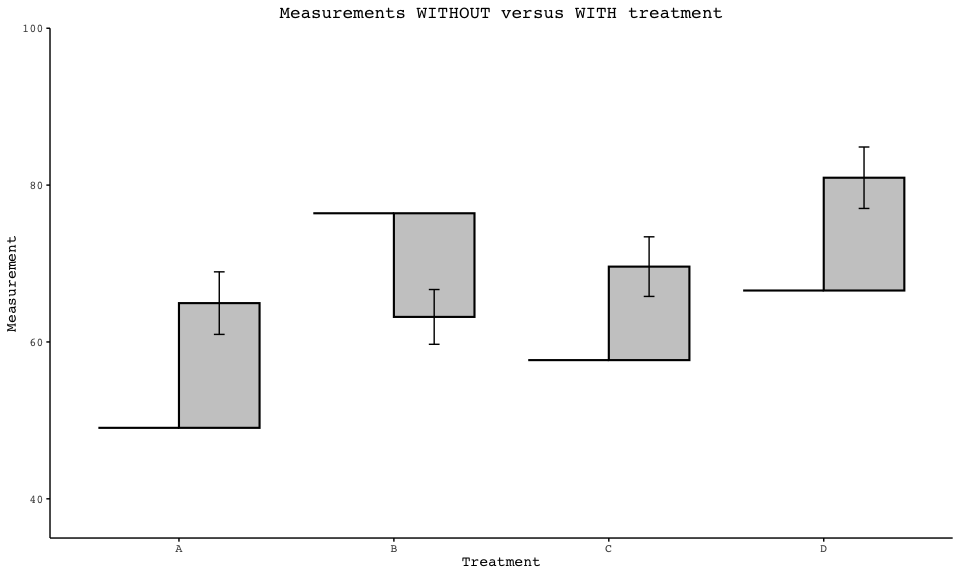
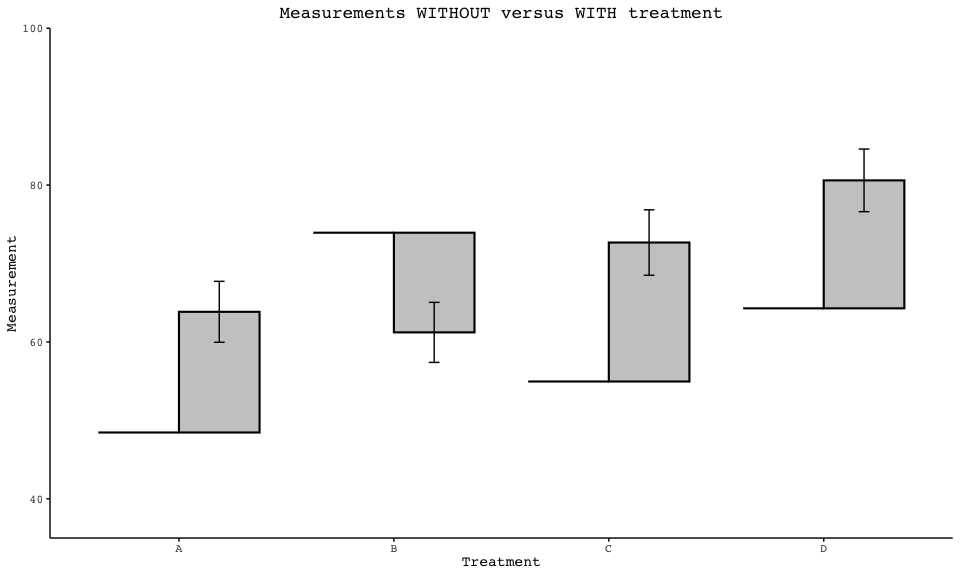
gghat updates

diff --git a/README.md b/README.md
@@ -27,6 +27,7 @@ library(patchwork)
 library(randomizr)
 library(estimatr)
 library(tidyverse)
+library(vayr)
 ```
 
 Comparative bar graphs — in which bars are paired or otherwise grouped —
@@ -100,11 +101,9 @@ that distinguishes `geom_hat()` from, say, the `geom_bar()` or
 `geom_col()` is actually outsourced to this position function. The
 benefit of this sort of organization is that variations of the same
 position function can be applied to other geoms to make them compatible
-with hat graphs. In particular, the `dodgedifftext()` and
-`dodgedifferror()` position functions can be used with the `geom_text()`
-and `geom_errorbar()` respectively. As well as `width`, which can be
-passed to both functions, a `nudge` argument can be passed to the
-former, moving text vertically away from the hats.
+with hat graphs. In particular the `dodgedifftext()` position function
+can be used with `geom_text()`. A `nudge` argument can be passed to
+`dodgedifftext()`, moving text vertically away from the hats.
 
 ``` r
 my_data <- tibble( # Create summarized data by treatment group, before and after
@@ -148,14 +147,14 @@ is recommended, as it’s easier to intuit the underlying experimental
 process. But if the user prefers, they can instead set `backwards` equal
 to TRUE, which makes the group with the minimum value the brim, such
 that a negative treatment effect would be reflected by a backwards hat.
-In this case, if the user is applying the `dodgedifftext()` or
-`dodgedifferror()` position functions to the respective geoms, they must
-also explicitly set `backwards` equal to TRUE within these functions to
-ensure proper behavior. For instance, text will sit below negative
-treatment effects when `backwards` is FALSE but above all groups when
-`backwards` is TRUE. Note that the `nudge` parameter for
-`dodgedifftext()` is particular in its ability to handle either case, as
-it pushes text above the hats upwards and text below the hats downwards.
+In this case, if the user is applying the `dodgedifftext()` position
+function to `geom_text()`, they must also explicitly set `backwards`
+equal to TRUE within these functions to ensure proper behavior. For
+instance, text will sit below negative treatment effects when
+`backwards` is FALSE but above all groups when `backwards` is TRUE. Note
+that the `nudge` parameter for `dodgedifftext()` is particular in its
+ability to handle either case, as it pushes text above the hats upwards
+and text below the hats downwards.
 
 ``` r
 my_data <- tibble( # New data wherein treatment B has a NEGATIVE effect
@@ -218,8 +217,8 @@ forwards + backwards
 Although hat graphs are designed with paired groups in mind,
 `geom_hat()` can tolerate more than two groups without any issue.
 `backwards` can still be FALSE or TRUE per the user’s preference, and
-the supplementary position functions, `dodgedifftext()` and
-`dodgedifferror()`, will behave properly.
+the supplementary position function `dodgedifftext()` will behave
+properly.
 
 ``` r
 my_data <- tibble(
@@ -254,65 +253,6 @@ ggplot(my_data, aes(x = treatment, y = mean, group = condition)) +
 ```
 
 <img src="man/figures/README-multihats-1.png" width="100%" />
-
-The `gghat` package works well with the `estimatr` package, which makes
-it easy to get group means and to calculate confidence intervals. Of
-course, the user will have to decide whether they want to derive these
-confidence intervals from the standard errors of the means or the
-average treatment effects — that is, the differences between the means.
-With hat graphs, the latter is likely preferable. In either case, the
-user can plot confidence intervals with `geom_errorbar()`, but
-importantly, if the confidence intervals are meant to contain the
-average treatment effects, the error bars should not be applied to the
-brim of the hat. This is the point of the aforementioned
-`dodgedifferror()` position function, which will only put error bars on
-non-baseline groups. Like `dodgedifftext()`, `dodgedifferror()` works
-even when `backwards` is set to TRUE, but the default setting of FALSE
-is recommended. This process is demonstrated below.
-
-``` r
-dat <- tibble( # Generate un-summarized data
-  block = rep(c("A", "B", "C", "D"), each = 100),
-  Z = block_ra(blocks = block),
-  Y = rnorm(n = 400, mean = 50 + (block == "B")*25 + (block == "C")*5 + 
-              (block == "D")*15 + Z*15 - Z*(block == "B")*30, sd = 10)
-) 
-
-group_means <- dat |> # Then summarize the data
-  group_by(block, Z) |> 
-  reframe(tidy(lm_robust(Y ~ 1))) 
-
-cates <- dat |> # Get stats on the average treatment effect
-  group_by(block) |> 
-  reframe(tidy(lm_robust(Y ~ Z))) |> # Isolate just the standard error...
-  select(block, term, std.error) |> 
-  filter(term == "Z") # ...of the average treatment effect...
-
-group_means <- group_means |> 
-  left_join(cates, by = "block", suffix = c(".mean", ".ate")) # ...and add it to summaries
-  
-ggplot(group_means, aes(x = block, y = estimate, group = Z)) +
-  geom_hat(width = 0.75, fill = "black", color = "black", alpha = 0.25) +
-  geom_errorbar(aes(ymin = estimate - (1.96*std.error.ate), # For a 95% confidence interval
-                    ymax = estimate + (1.96*std.error.ate)), width = 0.1, # Compare width here...
-                position = position_dodgedifferror(width = 0.75)) + # ...to width here
-  scale_y_continuous(expand = c(0, 0)) +
-  coord_cartesian(ylim = c(35, 100)) +
-  theme_minimal() +
-  theme(
-    text = element_text(family = "Courier"),
-    legend.position = "none",
-    panel.grid = element_blank(),
-    axis.line = element_line(linewidth = 0.5),
-    axis.ticks = element_line(linewidth = 0.5),
-    plot.title = element_text(hjust = 0.5)
-  ) +
-  xlab("Treatment") +
-  ylab("Measurement") +
-  ggtitle("Measurements WITHOUT versus WITH treatment")
-```
-
-<img src="man/figures/README-confidenceintervals-1.png" width="100%" />
 
 ## References
 
